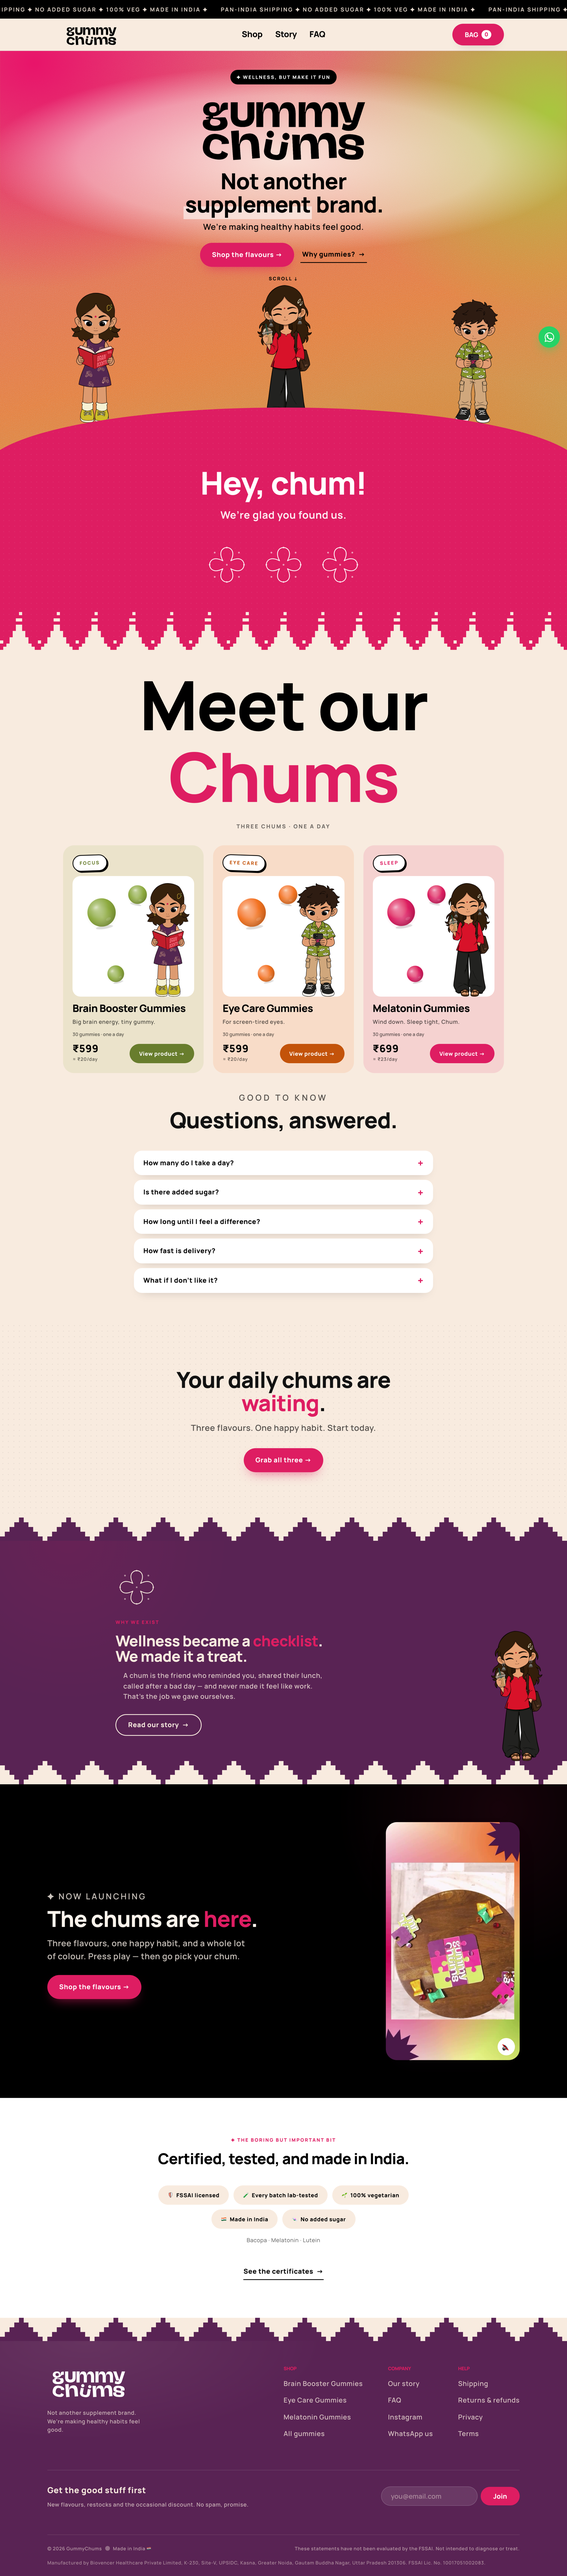
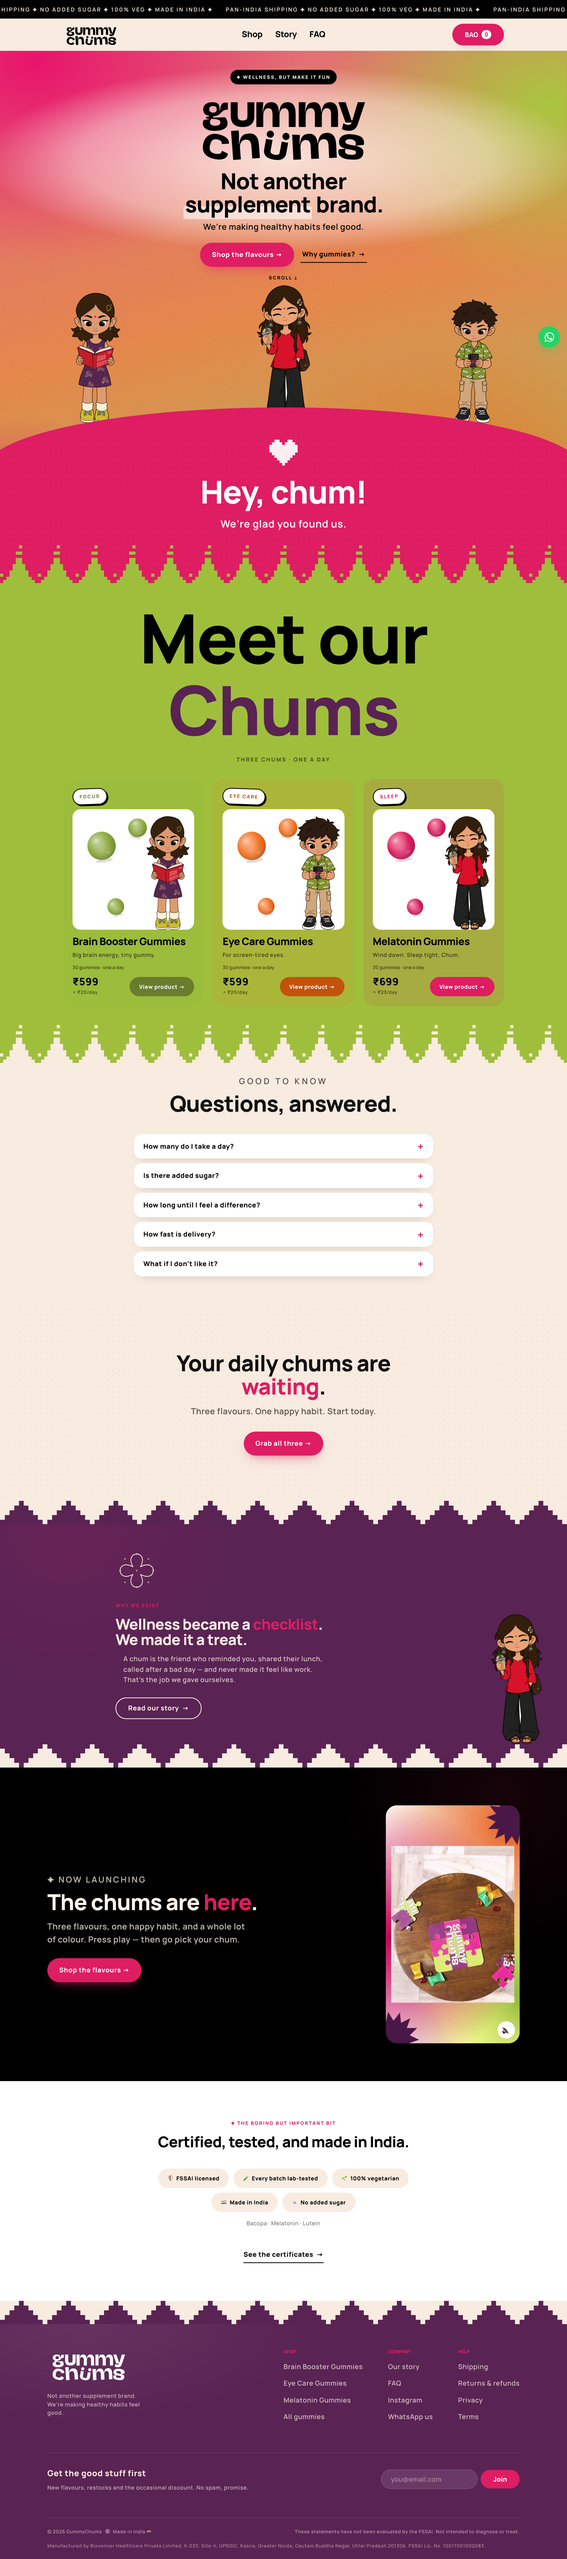
fix(product): the money page had no product and no characters on it
Mehal: "the product page is very shitty". Looking at it properly for the first
time, three separate things were wrong and two of them were defects, not taste.

THE PRODUCT SHOT WAS A FLAT BLOB. One hand-rolled SVG circle, 62% of a square
card, floating on a 12% tint. It read as a missing image rather than as a
product — and the Chums, which are the entire identity, appeared nowhere on the
page that actually sells. The homepage cards had the right composition all
along: a cluster of three gummies at different sizes plus the character. That
composition now runs on the product page at the size the money page deserves,
with the right Chum per SKU and real alt text.

THE PRICE AND THE BADGE FAILED CONTRAST. Both used var(--pc), the product's own
tone, on a white ground: mango 2.64:1 and orange 2.85:1 against the 4.5 that
size needs. Only cherry passed, which is why it was never obvious. The -deep
variants already existed for exactly this and clear it — 4.61 and 4.60 — so each
product now carries a --pc-deep and the price and badge use it.

THE CARD WAS PALE. var(--pc-soft) is a 12% tint and looked unfinished beside a
hero now running at the carton's saturation. Two stronger pools of the product's
own colour over cream give it the same confidence.

One trap caught while writing it: the float animation was bound to `.gp-media
svg`, which was harmless when the card held a single blob. The cluster renders
[…]

diff --git a/shopify-theme/assets/section-gc-product.css b/shopify-theme/assets/section-gc-product.css
@@ -17,13 +17,38 @@
   .gp-top{display:grid;grid-template-columns:1.05fr 1fr;gap:var(--sp-7);align-items:start}
   @media(max-width:899px){.gp-top{grid-template-columns:1fr}}
 
-  .gp-media{position:relative;border-radius:var(--r-lg);overflow:hidden;aspect-ratio:1/1;display:grid;place-items:center;
-    background:var(--pc-soft);box-shadow:var(--sh-3)}
-  .gp-media img{width:100%;height:100%;object-fit:cover;position:relative;z-index:1}
-  .gp-media svg{width:62%;height:auto;position:relative;z-index:1;animation:gpFloat 6s ease-in-out infinite;will-change:transform}
+  /* The card was var(--pc-soft) — a 12% tint, so pale it read as unfinished next
+     to a hero that now runs at the carton's saturation. Two stronger pools of the
+     product's own colour over cream give it the same confidence without taking
+     the type's background away from it. */
+  .gp-media{position:relative;border-radius:var(--r-lg);overflow:hidden;aspect-ratio:1/1;
+    background:
+      radial-gradient(72% 62% at 18% 14%, color-mix(in srgb, var(--pc) 46%, transparent), transparent 72%),
+      radial-gradient(76% 64% at 86% 88%, color-mix(in srgb, var(--pc) 34%, transparent), transparent 72%),
+      var(--c-surface);
+    box-shadow:var(--sh-3)}
+  .gp-media img.gp-photo{width:100%;height:100%;object-fit:cover;position:relative;z-index:1}
+
+  /* DIRECT CHILD only. This used to be `.gp-media svg`, which was fine when the
+     card held one hand-rolled blob — but the cluster renders three gc-gummy SVGs
+     inside spans, and the loose selector would have sized every one of them to
+     62% and floated them all on the same clock. */
+  .gp-media > svg{width:62%;height:auto;position:relative;z-index:1;animation:gpFloat 6s ease-in-out infinite;will-change:transform}
+
+  /* the gummies, scattered the way the homepage cards scatter them */
+  .gp-cluster{position:absolute;inset:0;z-index:1}
+  .gp-g{position:absolute;line-height:0}
+  .gp-g svg{width:100%;height:auto;display:block}
+  .gp-g1{width:34%;left:6%;top:30%}
+  .gp-g2{width:20%;left:40%;top:11%}
+  .gp-g3{width:15%;left:20%;bottom:13%}
+
+  /* the Chum, standing in her own product's card. She was missing entirely. */
+  .gp-fig{position:absolute;right:1%;bottom:0;height:86%;width:auto;z-index:2;
+    -webkit-user-drag:none;user-select:none;pointer-events:none}
   @keyframes gpFloat{0%,100%{transform:translateY(0) rotate(-3deg)}50%{transform:translateY(-18px) rotate(3deg)}}
   @media(prefers-reduced-motion:reduce){.gp-media svg{animation:none}}
-  .gp-badge{position:absolute;z-index:2;top:var(--sp-4);left:var(--sp-4);background:var(--c-surface);color:var(--pc);
+  .gp-badge{position:absolute;z-index:3;top:var(--sp-4);left:var(--sp-4);background:var(--c-surface);color:var(--pc-deep);
     font-size:var(--fs-xs);font-weight:var(--fw-black);letter-spacing:var(--ls-wide);text-transform:uppercase;
     padding:var(--sp-2) var(--sp-4);border-radius:var(--r-full);box-shadow:var(--sh-1)}
 
@@ -31,7 +56,10 @@
   .gp-title{font-size:var(--fs-3xl);font-weight:var(--fw-black);letter-spacing:var(--ls-tight);line-height:var(--lh-tight);color:var(--c-ink);margin:var(--sp-3) 0 0}
   .gp-line{font-size:var(--fs-lg);font-weight:var(--fw-bold);color:var(--c-ink-2);margin:var(--sp-3) 0 0}
   .gp-price{display:flex;align-items:baseline;gap:var(--sp-3);margin:var(--sp-5) 0 0}
-  .gp-price b{font-size:var(--fs-2xl);font-weight:var(--fw-black);color:var(--pc)}
+  /* --pc is the product's own tone and it fails AA on pale for two of the three:
+     mango 2.64:1 and orange 2.85:1 against the 4.5 this size needs. The -deep
+     variants exist for exactly this and clear it at 4.61 and 4.60. */
+  .gp-price b{font-size:var(--fs-2xl);font-weight:var(--fw-black);color:var(--pc-deep)}
   .gp-price s{font-size:var(--fs-base);font-weight:var(--fw-bold);color:var(--c-ink-3)}
   .gp-tax{font-size:var(--fs-sm);font-weight:var(--fw-body);color:var(--c-ink-3);margin:var(--sp-2) 0 0}
 
